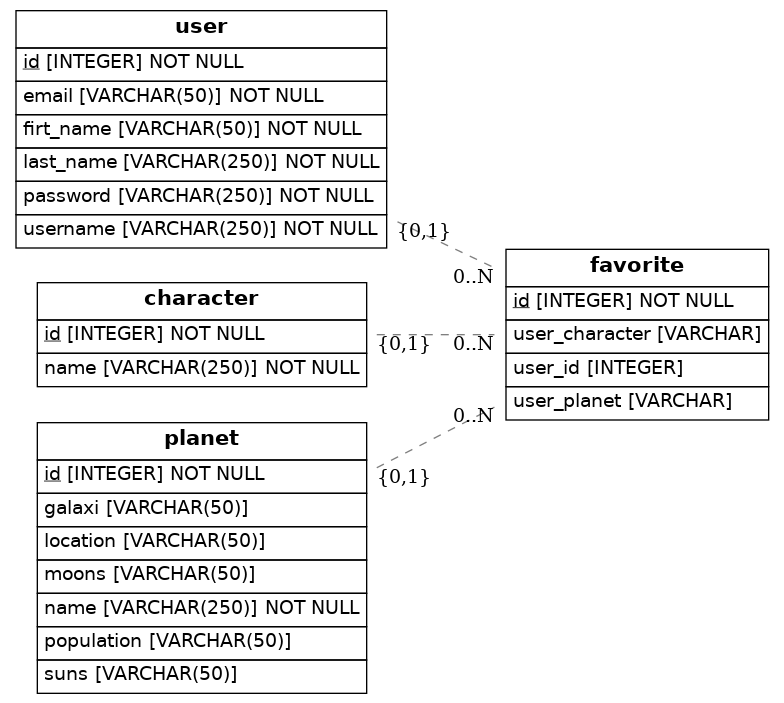
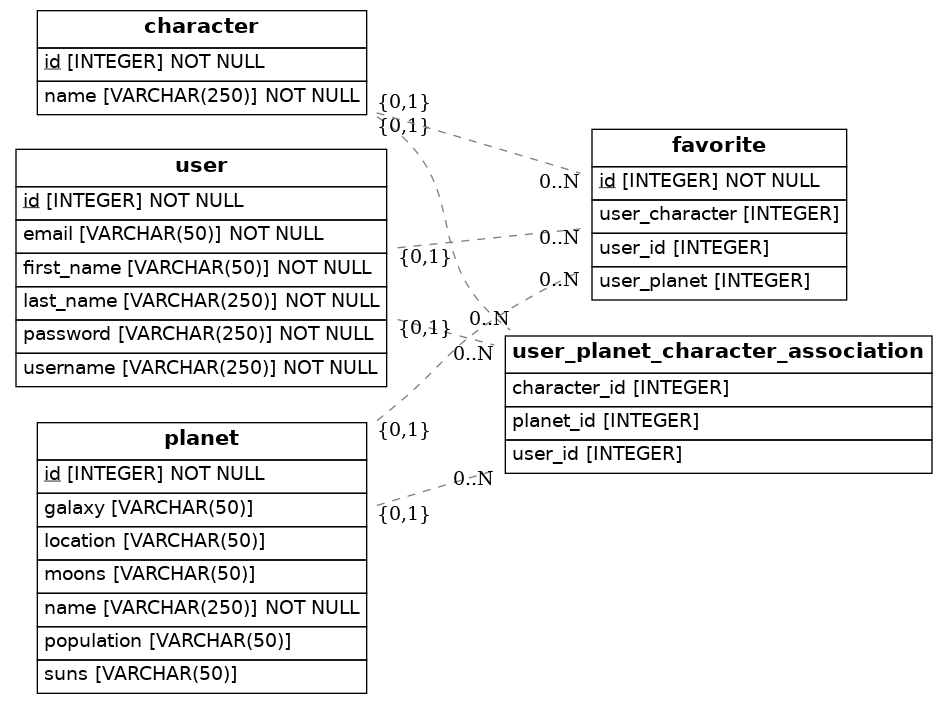
tablas corregidas

diff --git a/src/models.py b/src/models.py
@@ -1,28 +1,49 @@
 import os
 import sys
-from sqlalchemy import Column, ForeignKey, Integer, String
+from sqlalchemy import Column, ForeignKey, Integer, String, Table
 from sqlalchemy.orm import relationship, declarative_base
 from sqlalchemy import create_engine
 from eralchemy2 import render_er
 
-
 Base = declarative_base()
+
+# Tabla de asociación para la relación muchos a muchos entre User, Planet y Character
+user_planet_character_association = Table(
+    'user_planet_character_association',
+    Base.metadata,
+    Column('user_id', Integer, ForeignKey('user.id')),
+    Column('planet_id', Integer, ForeignKey('planet.id')),
+    Column('character_id', Integer, ForeignKey('character.id'))
+)
+
 
 class User(Base):
     __tablename__ = 'user'
     id = Column(Integer, primary_key=True)
-    firt_name = Column(String(50),  nullable=False)
+    first_name = Column(String(50), nullable=False)
     last_name = Column(String(250), nullable=False)
     username = Column(String(250), nullable=False)
     email = Column(String(50), unique=True, nullable=False)
     password = Column(String(250), nullable=False)
+     # Relación muchos a muchos con Planet y Character a través de la tabla intermedia
+    favorite_planets = relationship("Planet", secondary=user_planet_character_association, back_populates="favorited_by_users")
+    favorite_characters = relationship("Character", secondary=user_planet_character_association, back_populates="favorited_by_users")
+
+
+    
+    # Relación uno a muchos con Personajes Favoritos
+    favorite_characters = relationship("Character", secondary='favorite')
+
+    # Relación uno a muchos con Planetas Favoritos
+    favorite_planets = relationship("Planet", secondary='favorite')
 
 class Character(Base):
     __tablename__ = 'character'
     id = Column(Integer, primary_key=True)
     name = Column(String(250), nullable=False)
-
-
+     # Relación inversa de muchos a muchos con User y Planet
+    favorited_by_users = relationship("User", secondary=user_planet_character_association, back_populates="favorite_characters")
+    favorite_planets = relationship("Planet", secondary=user_planet_character_association, back_populates="favorited_characters")
 
 class Planet(Base):
     __tablename__ = 'planet'
@@ -32,27 +53,26 @@ class Planet(Base):
     moons = Column(String(50))
     suns = Column(String(50))
     population = Column(String(50))
-    galaxi = Column(String(50))
-    
+    galaxy = Column(String(50))
+     # Relación inversa de muchos a muchos con User y Character
+    favorited_by_users = relationship("User", secondary=user_planet_character_association, back_populates="favorite_planets")
+    favorited_characters = relationship("Character", secondary=user_planet_character_association, back_populates="favorite_planets")
 
 class Favorite(Base):
     __tablename__ = 'favorite'
     id = Column(Integer, primary_key=True)
     user_id = Column(Integer, ForeignKey('user.id'))
-    user_character = Column(String, ForeignKey('character.id'))
-    user_planet = Column(String, ForeignKey('planet.id'))
+    user_character = Column(Integer, ForeignKey('character.id'))
+    user_planet = Column(Integer, ForeignKey('planet.id'))
+    # Relación muchos a uno con User
     user = relationship(User)
-    
+    # Relación muchos a uno con Character
+    character = relationship(Character)
+    # Relación muchos a uno con Planet
+    planet = relationship(Planet)
 
-    def to_dict(self):
-        return {}
-
+def to_dict(self):
+    return {}
 
 # Draw from SQLAlchemy base
 render_er(Base, 'diagram.png')
-
-
-
-
-
-
